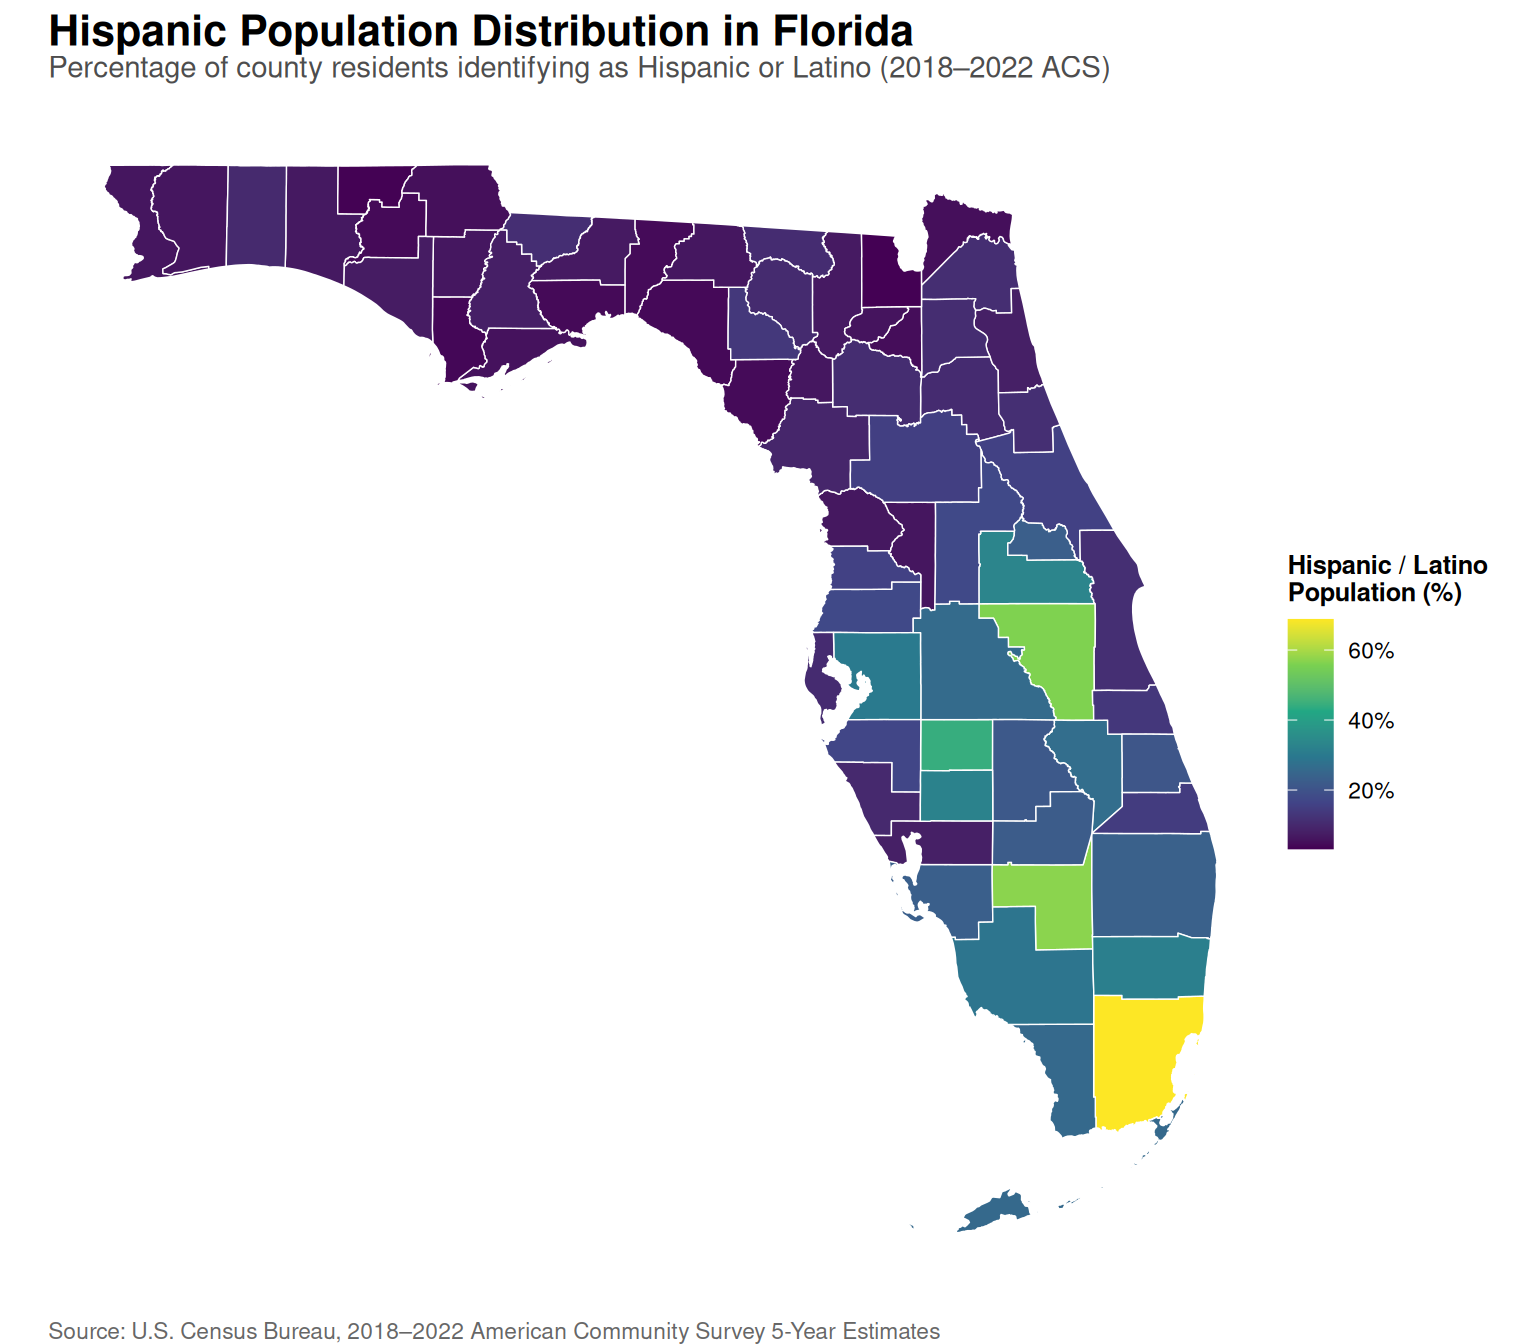
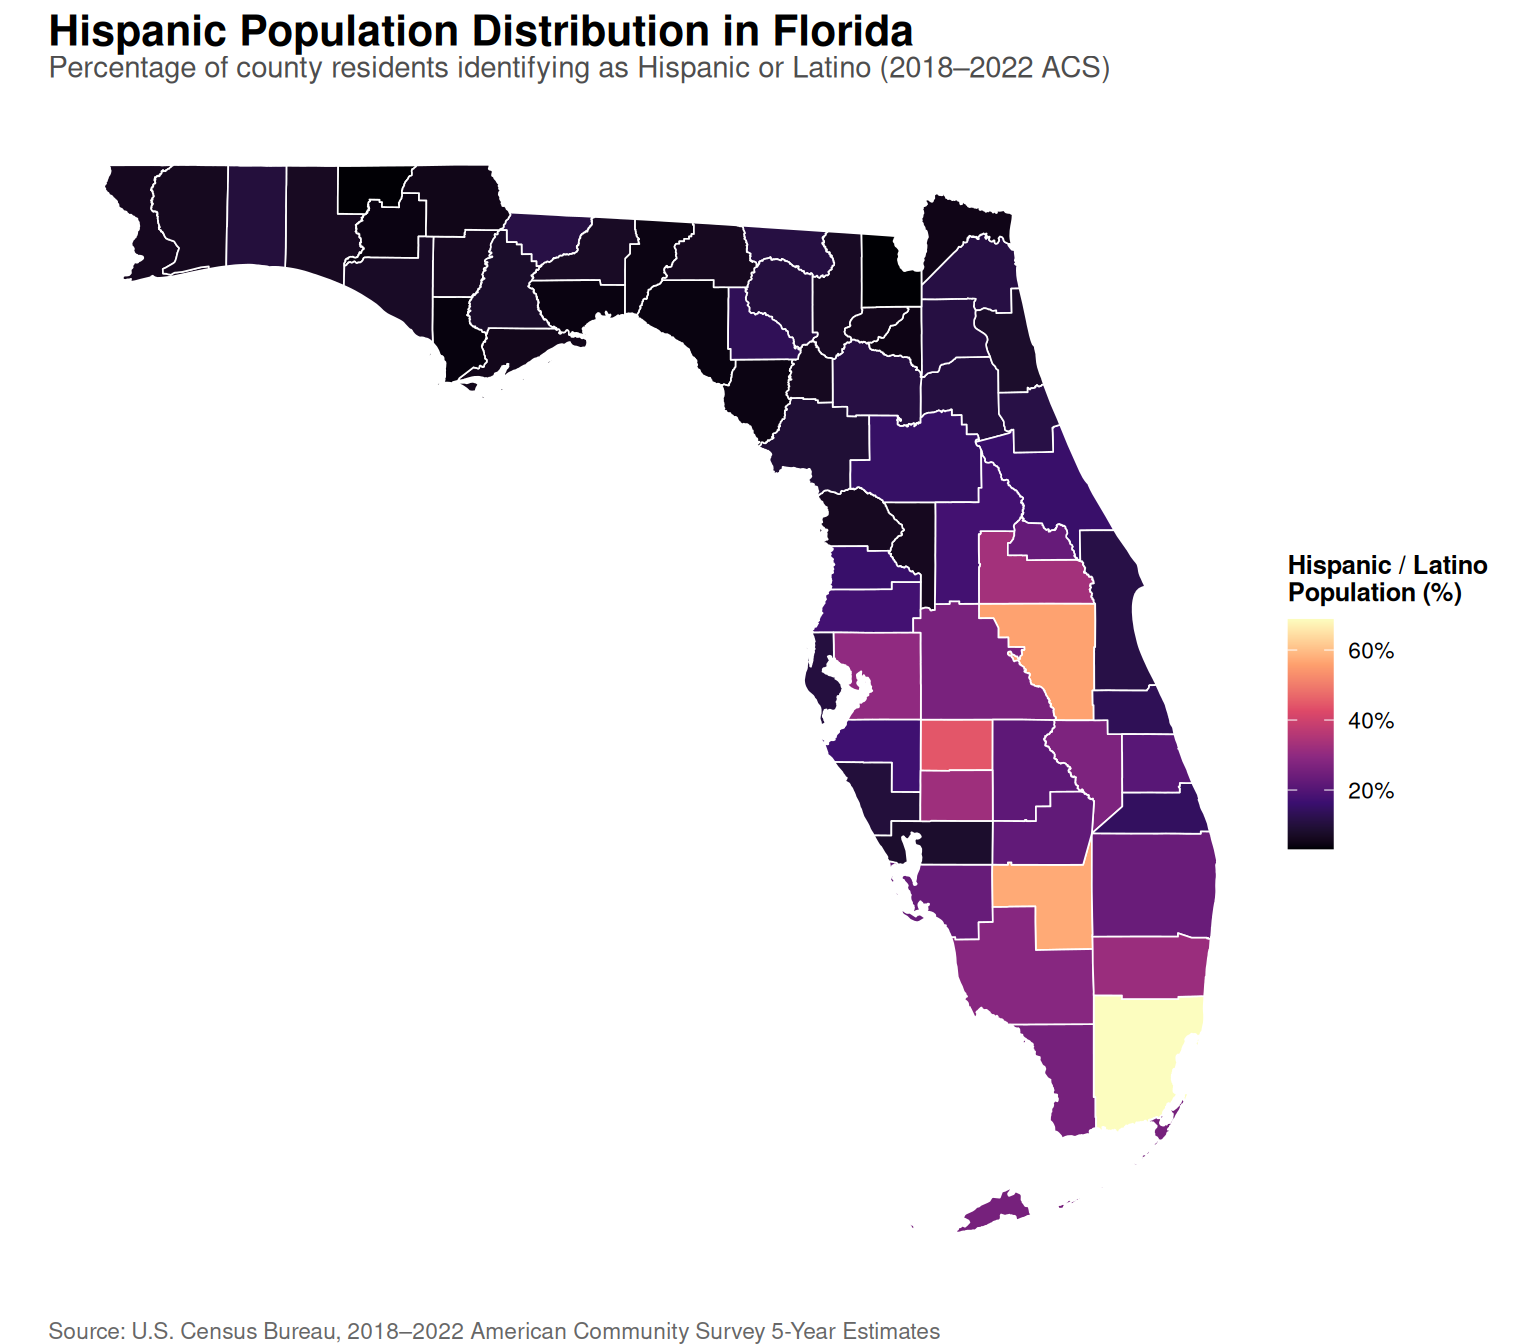
Save progress before Friday

Changed region(s): [[0.0625, 0.125, 0.8125, 0.8438], [0.8125, 0.4375, 0.875, 0.6562], [0.625, 0.875, 0.6875, 0.9375]]

diff --git a/_site/index.html b/_site/index.html
@@ -119,7 +119,8 @@ ul.task-list li input[type="checkbox"] {
     <h2 id="toc-title">On this page</h2>
    
   <ul>
-  <li><a href="#spatial-analysis" id="toc-spatial-analysis" class="nav-link active" data-scroll-target="#spatial-analysis">Spatial Analysis</a></li>
+  <li><a href="#top-5-counties-by-hispanic-share" id="toc-top-5-counties-by-hispanic-share" class="nav-link active" data-scroll-target="#top-5-counties-by-hispanic-share">Top 5 Counties by Hispanic Share</a></li>
+  <li><a href="#spatial-analysis" id="toc-spatial-analysis" class="nav-link" data-scroll-target="#spatial-analysis">Spatial Analysis</a></li>
   </ul>
 </nav>
     </div>
@@ -154,6 +155,57 @@ ul.task-list li input[type="checkbox"] {
 </div>
 </div>
 </div>
+<section id="top-5-counties-by-hispanic-share" class="level2">
+<h2 class="anchored" data-anchor-id="top-5-counties-by-hispanic-share">Top 5 Counties by Hispanic Share</h2>
+<p>The table below highlights the five counties with the largest proportion of Hispanic residents in Florida:</p>
+<div class="cell">
+<div class="cell-output-display">
+<table class="caption-top table table-sm table-striped small">
+<caption>Florida Counties with the Highest Hispanic Population Share</caption>
+<thead>
+<tr class="header">
+<th style="text-align: left;">County</th>
+<th style="text-align: right;">Total Population</th>
+<th style="text-align: right;">Hispanic Population</th>
+<th style="text-align: right;">Hispanic Share</th>
+</tr>
+</thead>
+<tbody>
+<tr class="odd">
+<td style="text-align: left;">Miami-Dade</td>
+<td style="text-align: right;">2,688,237</td>
+<td style="text-align: right;">1,848,739</td>
+<td style="text-align: right;">68.8%</td>
+</tr>
+<tr class="even">
+<td style="text-align: left;">Hendry</td>
+<td style="text-align: right;">39,902</td>
+<td style="text-align: right;">22,789</td>
+<td style="text-align: right;">57.1%</td>
+</tr>
+<tr class="odd">
+<td style="text-align: left;">Osceola</td>
+<td style="text-align: right;">393,745</td>
+<td style="text-align: right;">220,780</td>
+<td style="text-align: right;">56.1%</td>
+</tr>
+<tr class="even">
+<td style="text-align: left;">Hardee</td>
+<td style="text-align: right;">25,528</td>
+<td style="text-align: right;">11,310</td>
+<td style="text-align: right;">44.3%</td>
+</tr>
+<tr class="odd">
+<td style="text-align: left;">Orange</td>
+<td style="text-align: right;">1,427,403</td>
+<td style="text-align: right;">469,883</td>
+<td style="text-align: right;">32.9%</td>
+</tr>
+</tbody>
+</table>
+</div>
+</div>
+</section>
 <section id="spatial-analysis" class="level2">
 <h2 class="anchored" data-anchor-id="spatial-analysis">Spatial Analysis</h2>
 <p>The choropleth map reveals a pronounced geographic concentration of Florida’s Hispanic population, primarily clustered in South Florida and the Central Florida I-4 corridor. In South Florida, Miami-Dade County exhibits the highest Hispanic proportion in the state at 68.8%, reflecting historic and continuing immigration from Cuba and across Latin America, while agricultural interior counties like Hendry (57.1%) also sustain majority-Hispanic populations. Central Florida forms a prominent secondary hub centered on Osceola County (56.1%) and Orange County (32.9%), fueled by substantial inward migration of Puerto Rican communities to the Greater Orlando area. In contrast, northern Florida and the Panhandle exhibit significantly lower Hispanic population shares (often below 5%), highlighting a stark regional divergence across the peninsula.</p>
